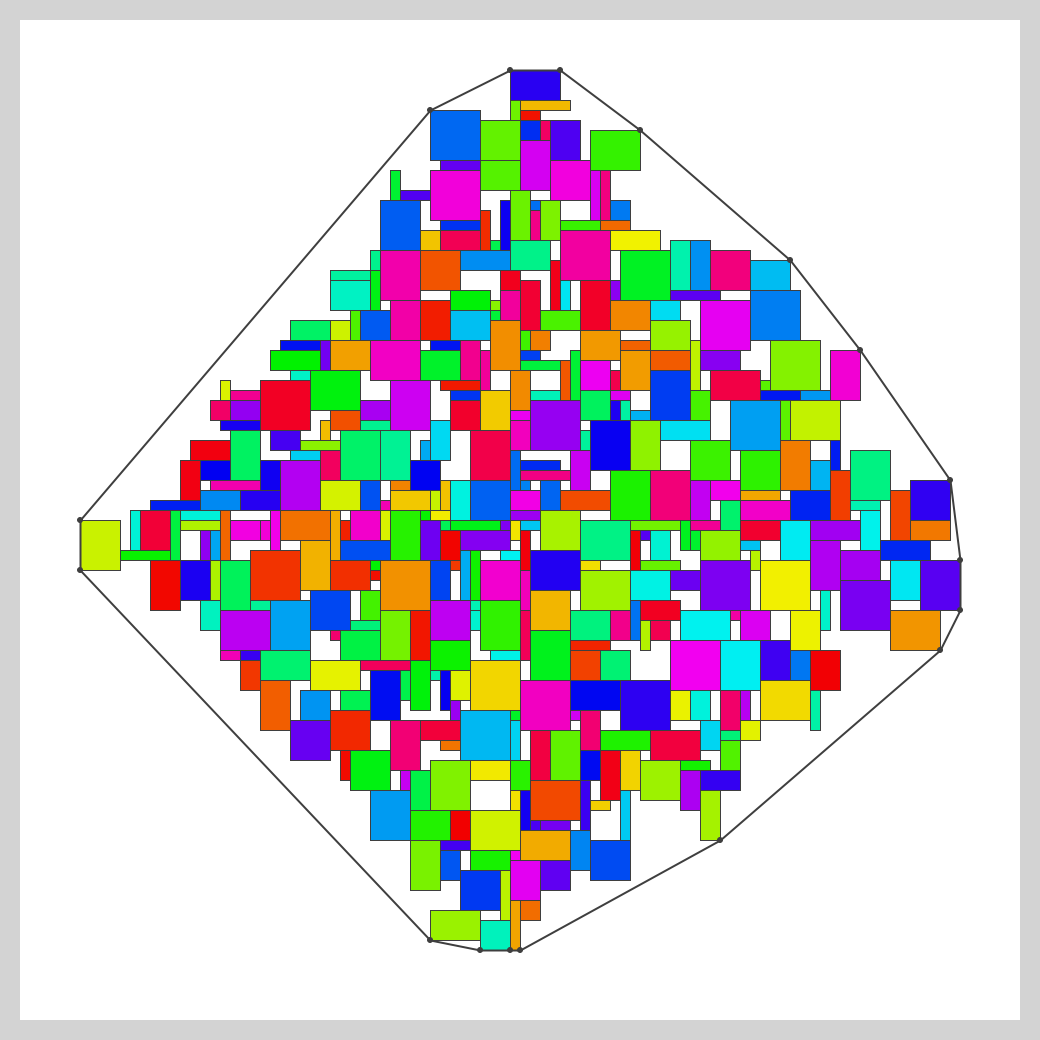
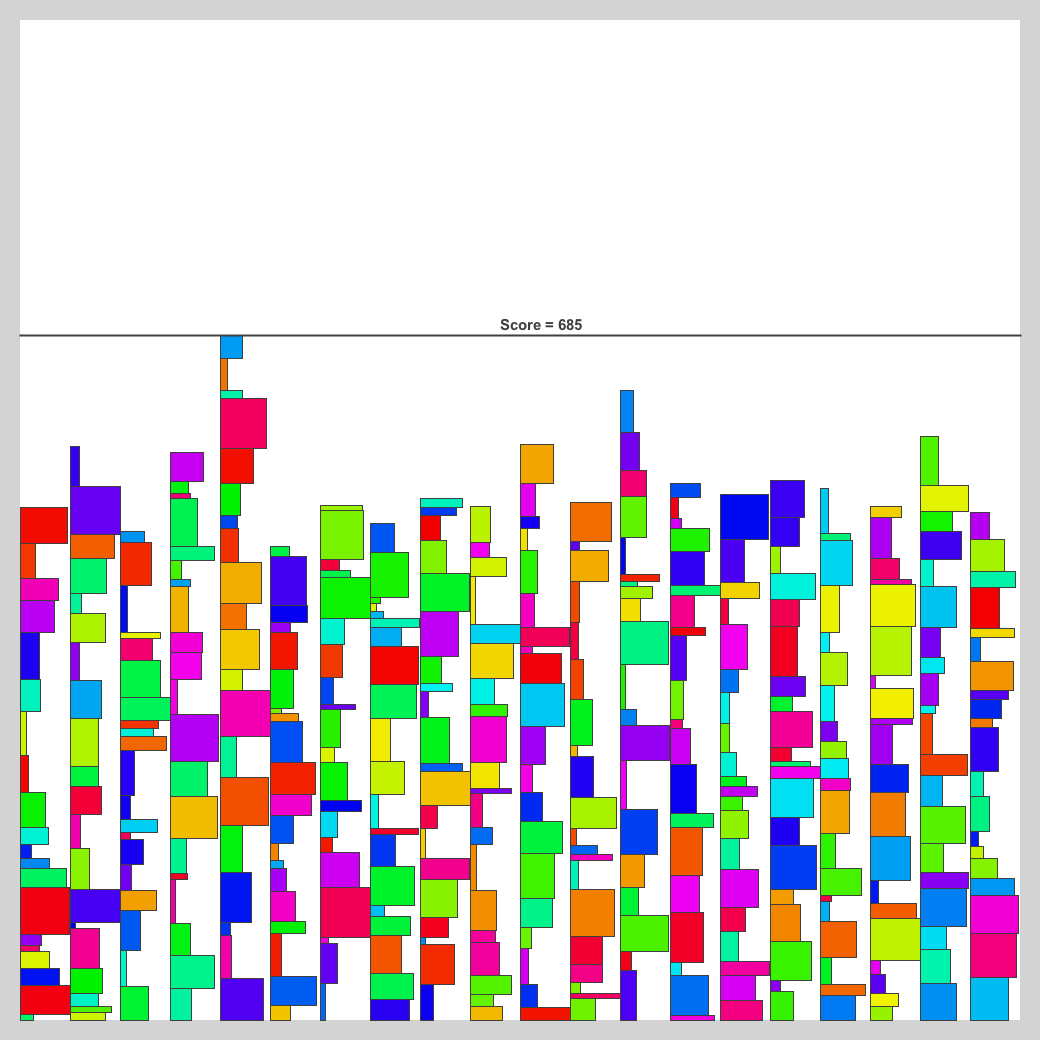
RPPのテスタを新しい制約用に修正した．

diff --git a/RPP/tester/Tester.java b/RPP/tester/Tester.java
@@ -14,8 +14,8 @@ public class Tester {
         public void paint(Graphics g) {
 
             try {
-                int WIDTH  = (BOX_SIZE + 4) * 10;
-                int HEIGHT = (BOX_SIZE + 4) * 10;
+                int WIDTH  = BOX_SIZE + 40;
+                int HEIGHT = BOX_SIZE + 40;
                 BufferedImage bi = new BufferedImage(WIDTH, HEIGHT, BufferedImage.TYPE_INT_RGB);
                 Graphics2D g2 = (Graphics2D)bi.getGraphics();
                 g2.setRenderingHint(RenderingHints.KEY_ANTIALIASING, RenderingHints.VALUE_ANTIALIAS_ON);
@@ -25,26 +25,24 @@ public class Tester {
                 g2.fillRect(20, 20, WIDTH - 40, HEIGHT - 40);
 
                 for (int i = 0; i < N; i++) {
+                    int wt = (dir[i] == 0 ? w[i] : h[i]);
+                    int ht = (dir[i] == 0 ? h[i] : w[i]);
                     Color c = Color.getHSBColor((1.0f / (float)N) * (float)i, 1.0f, 0.95f);
                     g2.setColor(c);
-                    g2.fillRect(posX[i] * 10 + 20, posY[i] * 10 + 20, w[i] * 10, h[i] * 10);
+                    g2.fillRect(20 + posX[i], 1020 - posY[i] - ht, wt, ht);
                     g2.setColor(new Color(0x3F3F3F));
-                    g2.drawRect(posX[i] * 10 + 20, posY[i] * 10 + 20, w[i] * 10, h[i] * 10);
+                    g2.drawRect(20 + posX[i], 1020 - posY[i] - ht, wt, ht);
                 }
 
                 g2.setStroke(new BasicStroke(2.0f));
-                for (int i = 0; i < ch.size(); i++) {
-                    int x1 = ch.getX(i) * 10 + 20;
-                    int y1 = ch.getY(i) * 10 + 20;
-                    int x2 = ch.getX((i + 1) % ch.size()) * 10 + 20;
-                    int y2 = ch.getY((i + 1) % ch.size()) * 10 + 20;
-                    g2.drawLine(x1, y1, x2, y2);
-                }
+                g2.drawLine(20, 1020 - MAX_POSY, 1020, 1020 - MAX_POSY);
 
-                g2.setStroke(new BasicStroke(1.0f));
-                for (int i = 0; i < ch.size(); i++) {
-                    g2.fillOval(ch.getX(i) * 10 + 17, ch.getY(i) * 10 + 17, 6, 6);
-                }
+                g2.setFont(new Font("Arial", Font.BOLD, 15));
+                FontMetrics fm = g2.getFontMetrics();
+                char[] ch = ("Score = " + MAX_POSY).toCharArray();
+                int x = BOX_SIZE / 2;
+                int y = 1020 - MAX_POSY - 5;
+                g2.drawChars(ch, 0, ch.length, x, y);
 
                 g.drawImage(bi, 0, 0, WIDTH, HEIGHT, null);
                 if (save) {
@@ -93,12 +91,12 @@ public class Tester {
     static boolean save, vis;
 
     final int N = 400;
-    final int RECT_MAX = 5, RECT_MIN = 1;
-    final int BOX_SIZE = 100;
+    final int RECT_MAX = 50, RECT_MIN = 5;
+    final int BOX_SIZE = 1000;
     int [] h, w;
     int [] dir;
     int [] posX, posY;
-    ConvexHull ch;
+    int MAX_POSY;
 
     /********************************************************************/
 
@@ -155,31 +153,18 @@ public class Tester {
             return -1;
         }
 
-        ch = new ConvexHull();
-        boolean [][] usedPos = new boolean[BOX_SIZE + 1][BOX_SIZE + 1];
+        MAX_POSY = 0;
         for (int i = 0; i < N; i++) {
-            int wt = (dir[i] == 0 ? w[i] : h[i]);
-            int ht = (dir[i] == 0 ? h[i] : w[i]);
-            int [] ax = {0, 0, wt, wt};
-            int [] ay = {0, ht, 0, ht};
-            for (int j = 0; j < 4; j++) {
-                int xt = posX[i] + ax[j];
-                int yt = posY[i] + ay[j];
-                if (!usedPos[xt][yt]) {
-                    ch.add_point(xt, yt);
-                    usedPos[xt][yt] = true;
-                }
-            }
+            int y = posY[i] + (dir[i] == 0 ? h[i] : w[i]);
+            MAX_POSY = Math.max(MAX_POSY, y);
         }
-
-        ch.build();
         
         if (vis) {
-            jf.setSize((BOX_SIZE + 4) * 10, (BOX_SIZE + 4) * 10);
+            jf.setSize(BOX_SIZE + 40, BOX_SIZE + 40);
             jf.setVisible(true);
         }
         
-        return ch.getArea();
+        return MAX_POSY;
     }
 
     private void getPermutation () throws IOException {
